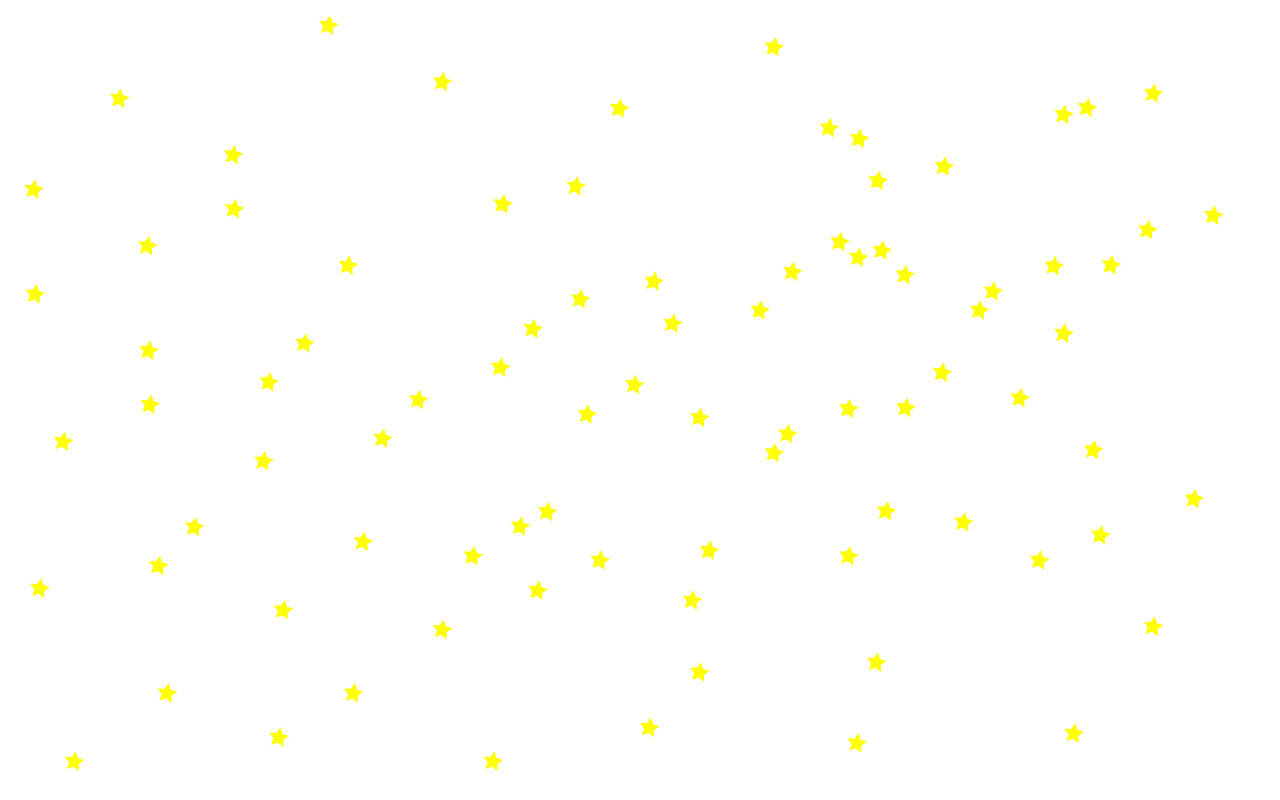
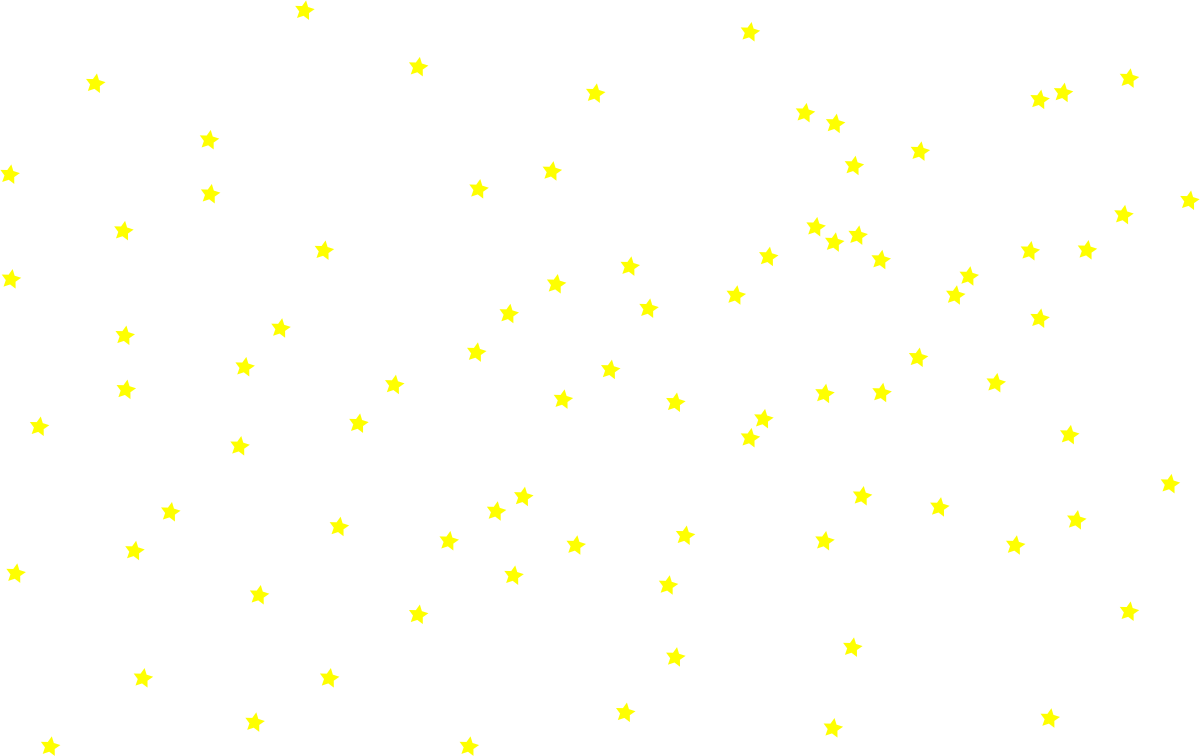
update the background
update the background image of the "home" page.

diff --git a/project/proto3/styles.css b/project/proto3/styles.css
@@ -16,7 +16,7 @@ h2 {
   font-size: 40pt;
   font-family: 'Press Start 2P', cursive;
   color: yellow;
-  left: 25%;
+  left: 31%;
   text-shadow: 3px 3px orange;
 }
 
@@ -28,7 +28,7 @@ h2 {
   font-family: 'Press Start 2P', cursive;
   color: yellow;
   left: 24%;
-  text-shadow: 3px 3px #994d00;
+  text-shadow: 3px 3px orange;
 }
 
 /* stastic page*/
@@ -40,7 +40,7 @@ h3 {
   color: yellow;
   top: 25px;
   left: 15%;
-  text-shadow: 3px 3px orange;
+  text-shadow: 3px 3px #994d00;
 }
 
 nav {
@@ -118,9 +118,9 @@ li {
 
 .ground {
   position: absolute;
-  top: 0;
-  left: 30px;
-  width: 100%;
+  top: 5px;
+  left: 55px;
+  width: 95%;
   height: 85%;
 }
 

diff --git a/project/proto3/index.html b/project/proto3/index.html
@@ -65,7 +65,6 @@ Game</h1>
 
         <label for="gender">Gender</label>
         <select id="gender" name="gender">
-
       <option value="select">Select</option>
         <option value="male">Male</option>
         <option value="female">Female</option>
